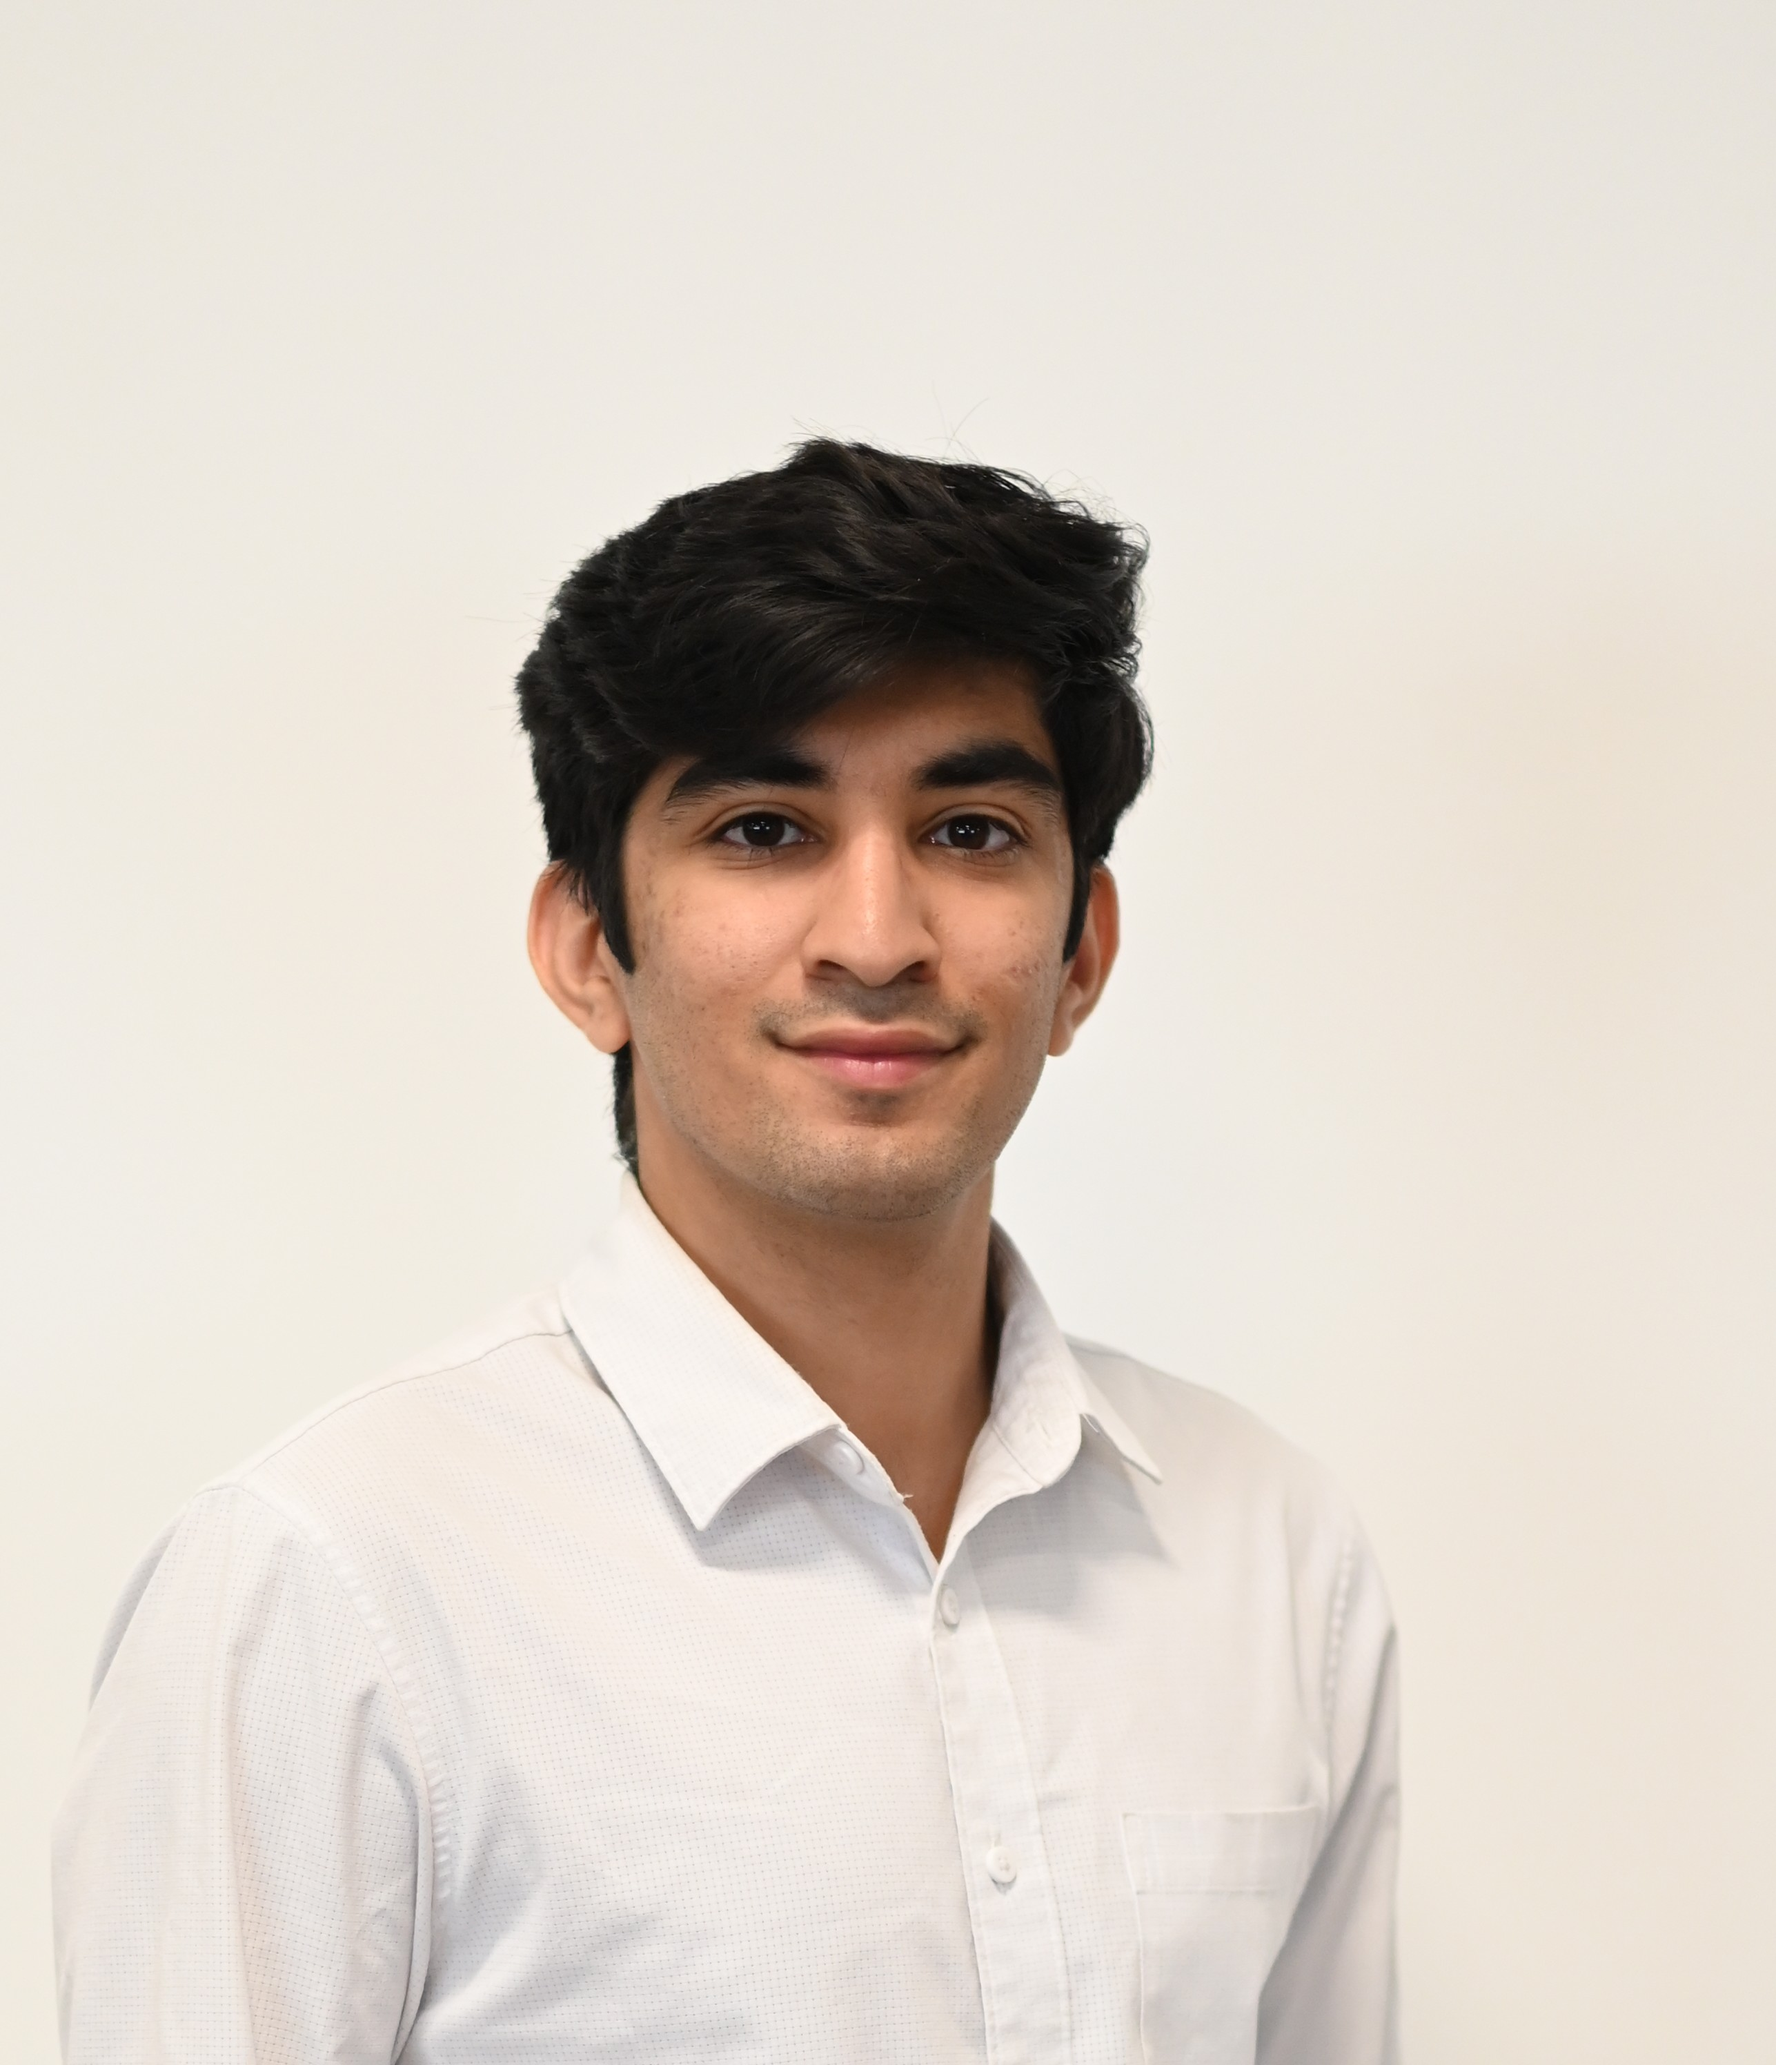
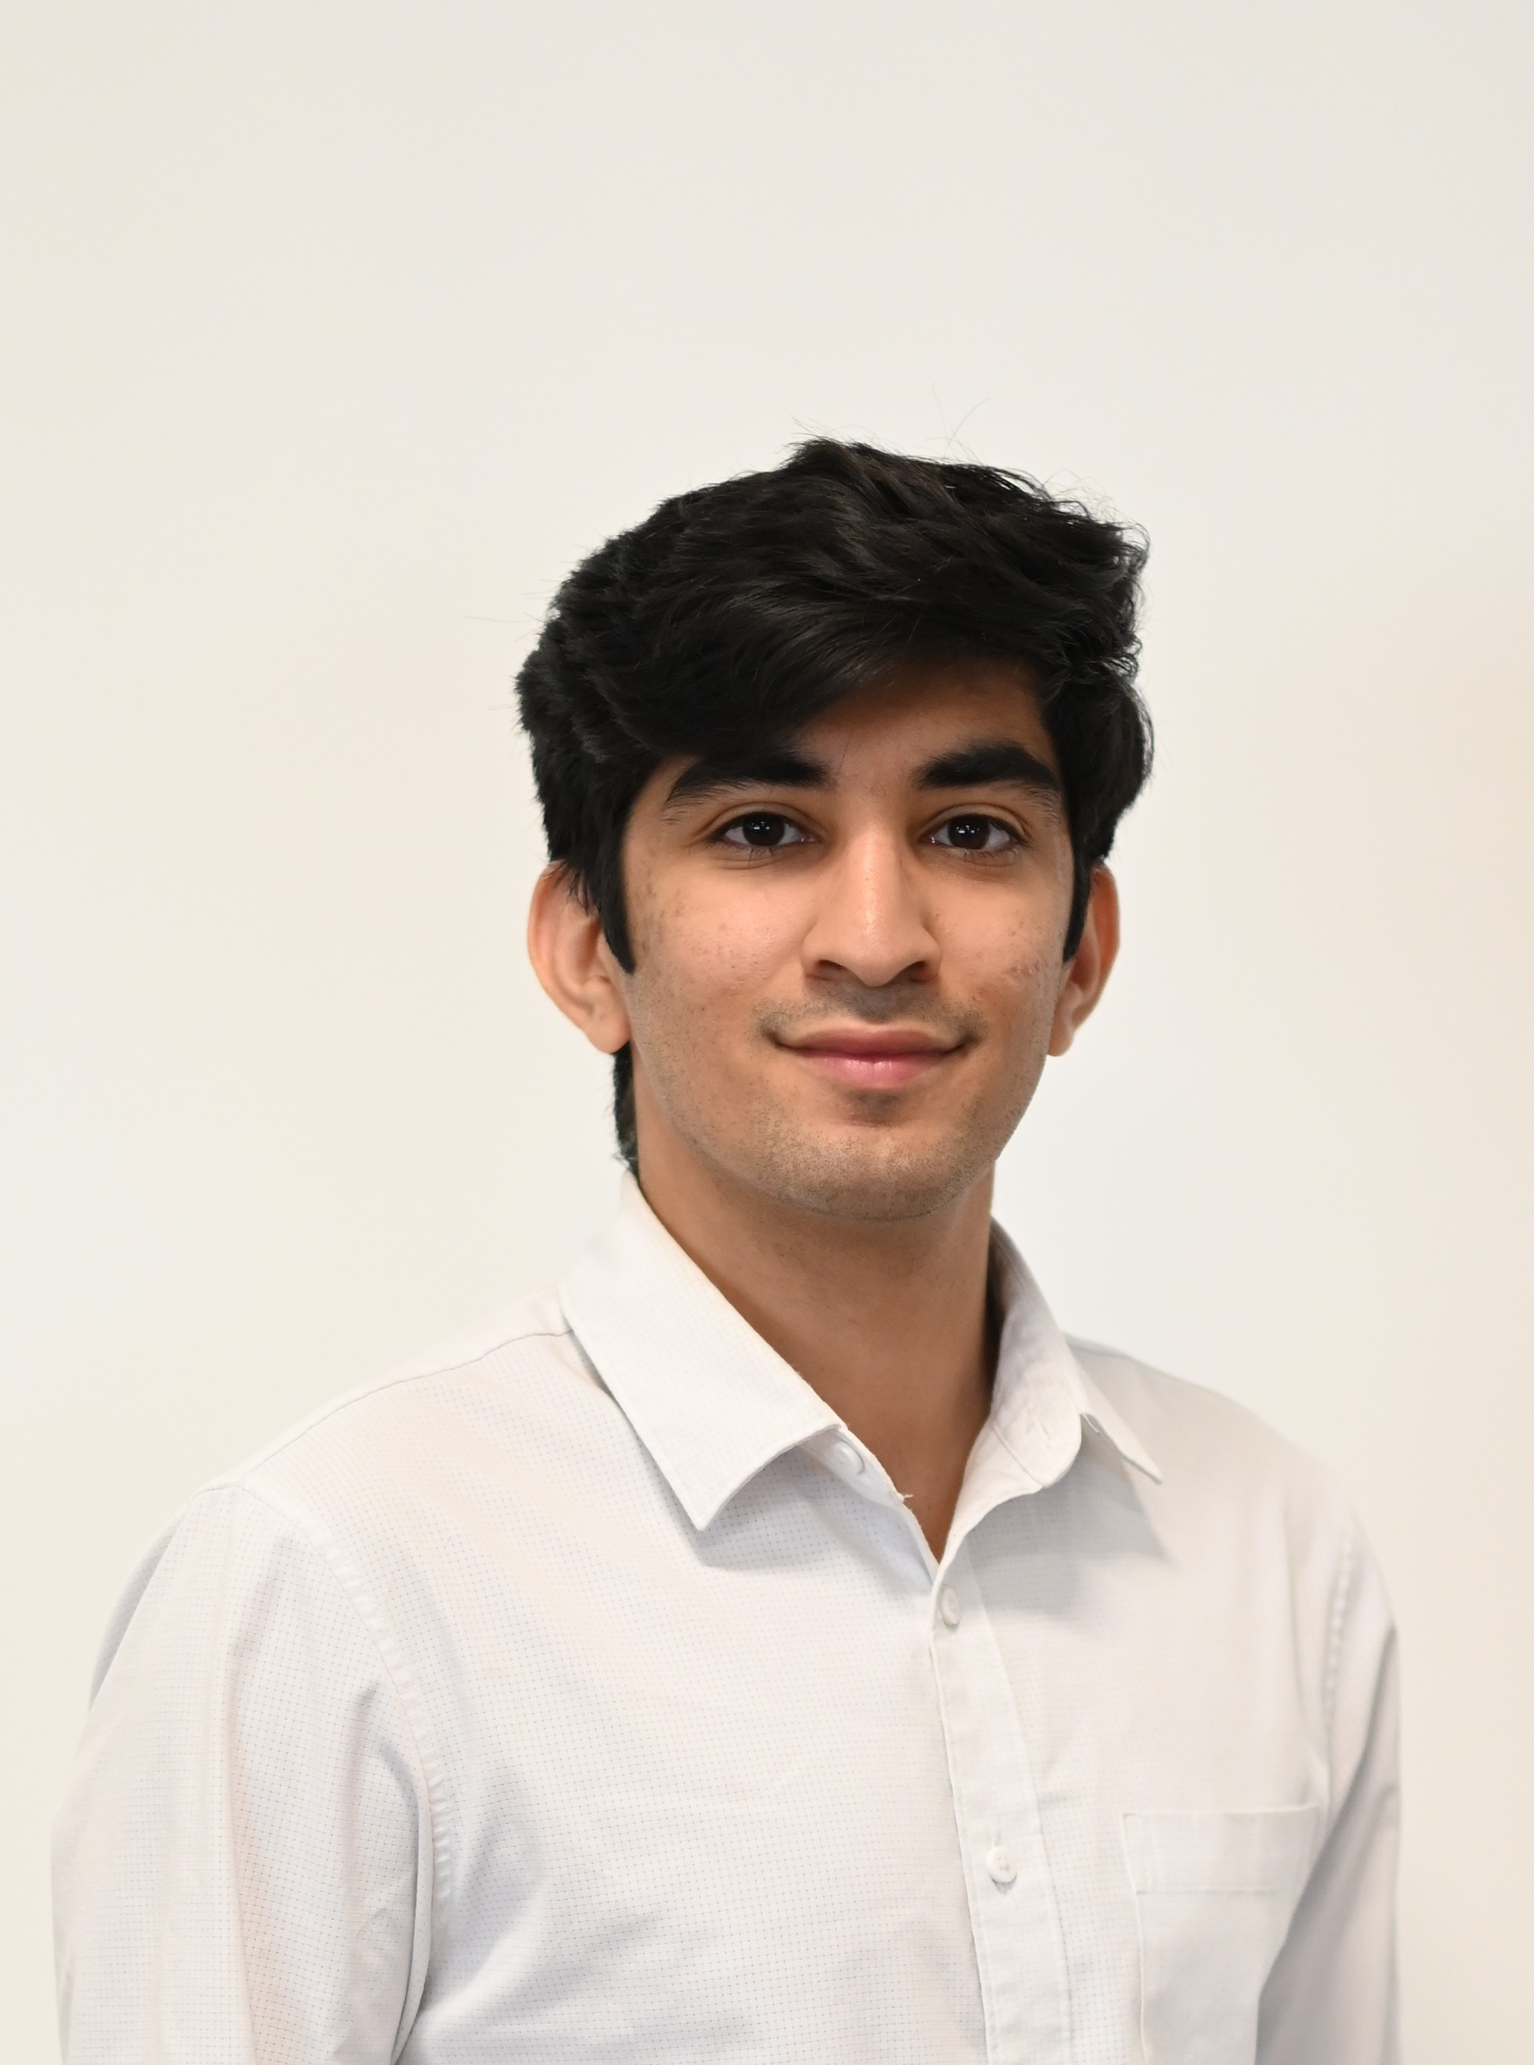
updated bio

diff --git a/libs/custom/my_css.css b/libs/custom/my_css.css
@@ -191,3 +191,130 @@ h4 {
   .popover-item:first-child .popover-link:hover:after {
     border-bottom-color: #33C3F0; }
 }
+
+/* ================ ENHANCED ANIMATIONS & MOBILE ================ */
+
+/* Animation Classes */
+.fade-in {
+  animation: fadeInUp 0.6s ease-out forwards;
+}
+
+@keyframes fadeInUp {
+  from {
+    opacity: 0;
+    transform: translateY(30px);
+  }
+  to {
+    opacity: 1;
+    transform: translateY(0);
+  }
+}
+
+.hover-effect {
+  transform: translateY(-2px) !important;
+  box-shadow: 0 8px 25px rgba(0,0,0,0.15) !important;
+}
+
+/* Enhanced Mobile Navigation */
+@media (max-width: 767px) {
+  .mobile-menu-toggle {
+    display: flex !important;
+    position: absolute;
+    right: 20px;
+    top: 50%;
+    transform: translateY(-50%);
+  }
+  
+  .navbar {
+    position: relative;
+  }
+  
+  .navbar-list {
+    display: none;
+    position: absolute;
+    top: 100%;
+    left: 0;
+    right: 0;
+    background: var(--navbar-bg);
+    border: 1px solid var(--border-color);
+    border-radius: 0 0 8px 8px;
+    box-shadow: 0 4px 12px rgba(0,0,0,0.1);
+    z-index: 1000;
+    margin: 0;
+  }
+  
+  .navbar-list.mobile-open {
+    display: block !important;
+    animation: slideDown 0.3s ease-out;
+  }
+  
+  .navbar-item {
+    display: block;
+    border-bottom: 1px solid var(--border-color);
+    margin: 0;
+  }
+  
+  .navbar-item:last-child {
+    border-bottom: none;
+  }
+  
+  .navbar-link {
+    padding: 15px 20px !important;
+    display: block;
+    border-radius: 0;
+    line-height: 1.4 !important;
+    margin: 0 !important;
+  }
+  
+  .social-links {
+    justify-content: center;
+    margin-top: 15px;
+  }
+  
+  .footer-social {
+    flex-direction: column;
+    align-items: center;
+    gap: 10px;
+  }
+  
+  .main-description {
+    text-align: center;
+    margin-top: 20px;
+  }
+  
+  .header .three.columns,
+  .header .nine.columns {
+    width: 100% !important;
+    margin-left: 0;
+  }
+}
+
+@keyframes slideDown {
+  from {
+    opacity: 0;
+    transform: translateY(-10px);
+  }
+  to {
+    opacity: 1;
+    transform: translateY(0);
+  }
+}
+
+/* Enhanced Dark Mode Integration */
+[data-theme="dark"] .profile-image {
+  box-shadow: 0 4px 8px rgba(255,255,255,0.1);
+}
+
+[data-theme="dark"] .project-container:hover {
+  box-shadow: 0 8px 25px rgba(255,255,255,0.1);
+}
+
+[data-theme="dark"] .hamburger-line {
+  background: var(--text-color);
+}
+
+[data-theme="dark"] .navbar-list {
+  background: var(--navbar-bg);
+  border-color: var(--border-color);
+}
+

diff --git a/index.html b/index.html
@@ -7,7 +7,7 @@ title: Home
   <h4>Bio</h4>
   <p>
   I am a Math and Economics student at the University of Kansas. I am a very curious individual who loves to learn about new ideas and solve problems. Currently, I am learning about stochastic processes for portfolio management. My interests include quantitative finance, data science, and applied mathematics. 
-  My research helps farmers determine <b>inventory management</b>, through analyzing <b>weather data & commodity prices</b>
+  I am currently working with <a href="https://math.ku.edu/people/joonha-park-0"><b>Prof. Joonha Park</b></a> on Stochastic Volatility Estimation methods for options pricing. I am also an active contributor as a Data Scientist to the <b> <a href = "https://data.ku.edu/kdsc">Kansas Data Science Consortium</b></a>, I am currently restructuring <a href = "https://www.nass.usda.gov/Publications/AgCensus/2022/Full_Report/Census_by_State/index.php">USDA</a> data.
 </div>
 <!--
 <div class="docs-section" id="prospective-students">  

diff --git a/_layouts/default.html b/_layouts/default.html
@@ -91,6 +91,7 @@
           <li class="navbar-item"><a class="navbar-link" href={{ "/index.html#bio" | prepend: site.baseurl }}>Bio</a></li>
           <li class="navbar-item"><a class="navbar-link" href={{ "/index.html#resume" | prepend: site.baseurl }}>Experience</a></li>
           <li class="navbar-item"><a class="navbar-link" href={{ "/index.html#projects" | prepend: site.baseurl }}>Projects</a></li>
+          <li class="navbar-item"><a class="navbar-link" href={{ "/index.html#Awards" | prepend: site.baseurl }}>Awards</a></li>
           <li class="navbar-item"><a class="navbar-link" href={{ "/index.html#publications" | prepend: site.baseurl }}>Publications</a></li>
         </ul>
       </div>
